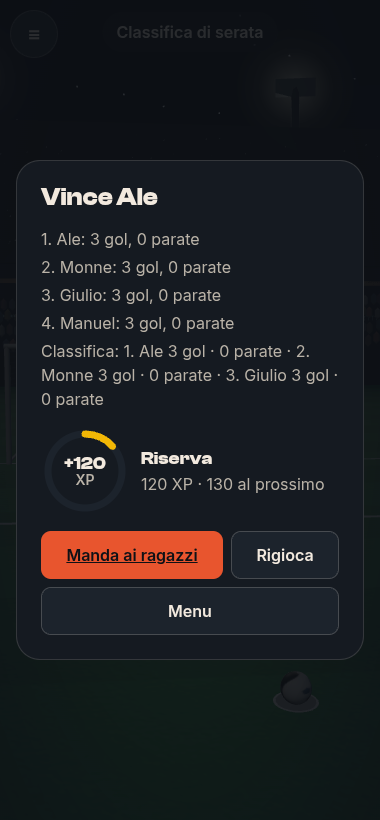
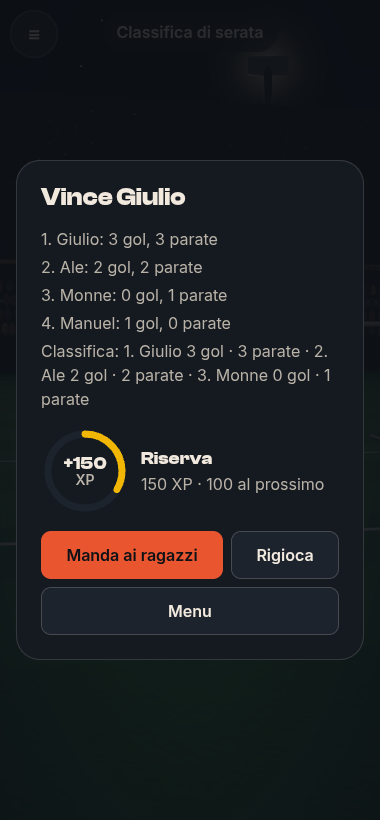
fix(rigori): correzioni da revisione: respinta contata come parata, portiere reattivo in volo, swipe specchiato, fine Skill a palla ferma
- shot.js: anche la respinta emette 'result' (le modalità contavano solo la presa e il turno si ripeteva)
- input del portiere attivo durante rincorsa e volo della CPU; swipe mappato per la camera dietro la porta
- fine modalità anche dal tick a palla ferma (Skill allo scadere); uscita e fine partita azzerano passività, zona forzata e bersaglio
- difficoltà a livello di partita, riapplicata al portiere riusato (Boss dopo Shootout normale)
- ?q= non viene più salvato nelle impostazioni; rigori.html di raccordo per i link del sito precedente
- rimosso codice morto (setCamera, loadFace, faceSprite), openOptions() unica, titoli da MODES_INFO
- QA: scripts/qa/rigori-review.mjs; regressioni flusso/modalità/pass-and-play verdi; QA_REPORT aggiornato

Claude-Session: https://claude.ai/code/session_0186k4nPYJUNr6xdRgi69dU8

diff --git a/src/rigori/main.js b/src/rigori/main.js
@@ -29,7 +29,7 @@ import { cpuAim, XP } from './game/modes/base.js'
 import { zoneOf } from './game/keeper.js'
 import { pickZone, handoff } from './ui/screens/passaggio.js'
 import { chiTira } from './ui/screens/chiTira.js'
-import { modalita } from './ui/screens/modalita.js'
+import { modalita, MODES_INFO } from './ui/screens/modalita.js'
 import { showEsito, hideEsito } from './ui/screens/esito.js'
 import { risultato } from './ui/screens/risultato.js'
 import { opzioni } from './ui/screens/opzioni.js'
@@ -38,7 +38,6 @@ import { onboarding } from './ui/screens/onboarding.js'
 import { overlay } from './ui/screens/overlay.js'
 import { toast } from './ui/components/toast.js'
 import { save } from './core/save.js'
-import { setCamera } from './scene/players.js'
 import { keeper as keeperData, faceOf, byId } from './data/players.js'
 import { createKicker, KICK_DELAY } from './game/kicker.js'
 
@@ -68,7 +67,6 @@ const R = createRenderer(stage)
 const scene = new THREE.Scene()
 scene.fog = new THREE.FogExp2(0x0E1116, 0.018) // la profondità arriva da qui (direzione visiva)
 const rig = createCameraRig(R.size.w / R.size.h)
-setCamera(rig.camera)
 const stadium = createStadium(); scene.add(stadium.group)
 const lights = createLights({ towerPositions: stadium.lightPos, aim: stadium.aim }); scene.add(lights.group)
 const field = createField(); scene.add(field)
@@ -90,14 +88,15 @@ applyQuality()
 let timingEnabled = true               // opzione (fase 9); ON di default
 // Opzione "riduci flash e shake" (fase 9) + prefers-reduced-motion: niente shake né particelle intense, lo slow-mo resta
 const settings = Object.assign({ audio: true, music: true, vibration: true, reduceFx: reducedMotion, timing: true, quality: 'auto' }, save.get('settings', {}))
-if (new URLSearchParams(location.search).get('q')) settings.quality = new URLSearchParams(location.search).get('q') // QA: ?q=alta|bassa|auto
+const qOverride = new URLSearchParams(location.search).get('q') // QA: ?q=alta|bassa|auto, solo per questa visita (non viene salvato)
 const audio = createAudio(ASSETS, settings)
 function applySettings() {
   audio.apply()
   timingEnabled = settings.timing !== false
-  perf.lock(settings.quality !== 'auto')
-  if (settings.quality === 'bassa') { quality.bloom = false; quality.shadows = false; quality.particles = false; quality.crowd = 0.5 }
-  else if (settings.quality === 'alta') { quality.bloom = !reducedMotion; quality.shadows = true; quality.particles = true; quality.crowd = 1 }
+  const q = qOverride || settings.quality
+  perf.lock(q !== 'auto')
+  if (q === 'bassa') { quality.bloom = false; quality.shadows = false; quality.particles = false; quality.crowd = 0.5 }
+  else if (q === 'alta') { quality.bloom = !reducedMotion; quality.shadows = true; quality.particles = true; quality.crowd = 1 }
   applyQuality()
   save.set('settings', settings)
 }
@@ -146,7 +145,7 @@ function setPair(keeperP, kickerP) {
   controllers[kKey] = controllers[kKey] || createKeeper(kc, { difficulty: keeper?.difficulty || 'normale', onDive: (_z, at) => { juice.dust(at); audio.play('dive', { volume: .6 }) } })
   controllers[sKey] = controllers[sKey] || createKicker(sc)
   keeper = controllers[kKey]; kicker = controllers[sKey]
-  keeper.reset(); kicker.reset(); if (game.progress) applyEquip()
+  keeper.setDifficulty(difficulty); keeper.reset(); kicker.reset(); if (game.progress) applyEquip()
   // Lo stesso personaggio passa da tiratore a portiere e viceversa: il portiere torna sulla linea, rivolto al dischetto
   kc.group.position.set(0, 0, 0.55); kc.group.rotation.set(0, 0, 0); kc.model.scale.x = 1
   scene.add(kc.group); scene.add(sc.group)
@@ -164,7 +163,8 @@ const hud = document.createElement('div'); hud.className = 'rg-hud'; hud.innerHT
   <div class="rg-hint" id="rg-hint">Trascina dal pallone</div>`
 document.getElementById('rg-ui').appendChild(hud)
 const timingEl = document.getElementById('rg-timing'), timingCur = timingEl.querySelector('.rg-timing__cur'), hint = document.getElementById('rg-hint')
-const input = createInput(stage, { camera: rig.camera, getBallWorld: () => ball.mesh.position, size: R.size, enabled: () => !shot.busy && window.__rigori.ready })
+// Tiratore: solo a palla ferma. Portiere: anche durante rincorsa e volo (deve reagire al tell), non a esito già deciso
+const input = createInput(stage, { camera: rig.camera, getBallWorld: () => ball.mesh.position, size: R.size, enabled: () => window.__rigori.ready && (input.mode === 'keeper' ? (shot.state === 'idle' || shot.state === 'windup' || shot.state === 'flying') && !shot.resolved : !shot.busy) })
 input.on('start', () => { if (timingEnabled && input.mode === 'shooter') { timing.start(); timingEl.hidden = false } hint.hidden = true })
 input.on('move', (g) => { if (g.ok && input.mode === 'shooter') ghost.show(aimFromGesture(g, R.size)) })
 input.on('end', (g) => {
@@ -172,7 +172,8 @@ input.on('end', (g) => {
   if (input.mode === 'keeper') {
     // portiere: direzione dello swipe → zona; il tempismo è tutto (troppo presto: la CPU cambia lato)
     if (!g.ok || !keeper) return
-    const col = g.dx < -40 ? 0 : g.dx > 40 ? 2 : 1, row = -g.dy > 60 ? 0 : 1
+    // la camera è dietro la porta e guarda verso il dischetto: la destra dello schermo è x<0 (colonna 0)
+    const col = g.dx > 40 ? 0 : g.dx < -40 ? 2 : 1, row = -g.dy > 60 ? 0 : 1
     keeper.playerDive(row * 3 + col); hint.hidden = true
     return
   }
@@ -210,7 +211,7 @@ systems.push({ update(_dt, raw) {
 
 // ---------- modalità ----------
 const MODES = { shootout: (o) => createShootout(o), boss: (o) => createShootout({ ...o, boss: true }), sfidaAle: (o) => createSfidaAle(o), passAndPlay: (o) => createPassAndPlay(o), skill: (o) => createSkill(o) }
-let mode = null, role = 'idle'
+let mode = null, role = 'idle', difficulty = 'normale' // la difficoltà è della partita, non del singolo controller (che viene riusato)
 const modeHud = document.createElement('div'); modeHud.className = 'rg-modehud'; modeHud.setAttribute('aria-live', 'polite'); document.getElementById('rg-ui').appendChild(modeHud)
 const target = new THREE.Mesh(new THREE.RingGeometry(0.42, 0.55, 32), new THREE.MeshBasicMaterial({ color: 0xF2B705, transparent: true, opacity: .9, side: THREE.DoubleSide, depthTest: false })); target.renderOrder = 8; target.visible = false; scene.add(target)
 const xpLog = []
@@ -224,7 +225,7 @@ const ctx = {
     else if (r === 'keeper') { hint.textContent = 'Trascina verso la zona in cui tuffarti'; hint.hidden = false; rig.goTo('dietroPortiere', { instant: true }) }
     else hint.hidden = true
   },
-  setDifficulty(d) { keeper?.setDifficulty(d) },
+  setDifficulty(d) { difficulty = d; keeper?.setDifficulty(d) },
   hud(t) { modeHud.textContent = t },
   xp(kind) { const n = XP[kind] || 0; xpLog.push({ kind, n }); listeners.forEach((f) => f({ type: 'xp', kind, n })) },
   forceKeeperZone(z) { keeper?.force(z) },
@@ -255,21 +256,30 @@ function startMode(id, opts = {}) {
   listeners.forEach((f) => f({ type: 'modeStart', id }))
   return mode
 }
+// Fine modalità: stato della partita azzerato (passività, zona forzata, bersaglio), poi 'modeEnd'
+function endMode() {
+  const summary = mode.summary(); const m = mode; mode = null
+  ctx.keeperPassive(false); ctx.forceKeeperZone(null); ctx.showTarget(null); ctx.role('idle')
+  listeners.forEach((f) => f({ type: 'modeEnd', id: m.id, summary }))
+}
 listeners.add((e) => {
   if (!mode) return
   if (e.type === 'result') mode.onResult(e, ctx)
-  if (e.type === 'replayEnd') {
-    if (mode.finished) { const summary = mode.summary(); const m = mode; mode = null; ctx.role('idle'); listeners.forEach((f) => f({ type: 'modeEnd', id: m.id, summary })) }
-    else mode.nextTurn(ctx)
-  }
+  if (e.type === 'replayEnd') { if (mode.finished) endMode(); else mode.nextTurn(ctx) }
 })
-systems.push({ update(dt) { if (mode?.tick && !mode.finished) mode.tick(dt, ctx) } })
+systems.push({ update(dt) {
+  if (!mode?.tick || mode.finished) return
+  mode.tick(dt, ctx)
+  // il tempo può scadere a palla ferma (Skill): non arriverebbe nessun 'replayEnd'
+  if (mode.finished && shot.state === 'idle') endMode()
+} })
 
 // ---------- flusso: onboarding → CHI TIRA? → modalità → partita → risultato ----------
 document.getElementById('rg-ui').addEventListener('click', (e) => { const b = e.target.closest('button, a'); if (!b) return; audio.play(b.classList.contains('rg-btn--primary') ? 'confirm' : b.dataset.value === '__close' || b.dataset.back != null ? 'back' : 'click', { volume: .5 }) })
 const menuBtn = document.createElement('button'); menuBtn.className = 'rg-btn rg-btn--ghost rg-menubtn'; menuBtn.setAttribute('aria-label', 'Menu'); menuBtn.textContent = '≡'; menuBtn.hidden = true
 document.getElementById('rg-ui').appendChild(menuBtn)
 let flow = 'boot', quitRequested = false
+const openOptions = () => opzioni(game.ui, settings, { onChange: applySettings, onReset: () => { save.reset(); toast(game.ui, 'Progressi azzerati'); setTimeout(() => location.reload(), 700) } })
 async function runFlow() {
   await kitReady
   ctx.role('idle')
@@ -281,7 +291,7 @@ async function runFlow() {
     while (!choice) {
       flow = 'modalita'
       const r = await modalita(game.ui, { bossUnlocked: game.progress?.bossUnlocked?.() ?? false, level: game.progress?.level?.().n ?? 1 })
-      if (r.id === '__opzioni') { await opzioni(game.ui, settings, { onChange: applySettings, onReset: () => { save.reset(); toast(game.ui, 'Progressi azzerati'); setTimeout(() => location.reload(), 700) } }); continue }
+      if (r.id === '__opzioni') { await openOptions(); continue }
       if (r.id === '__sblocchi') { await sblocchi(game.ui, game.progress.summaryForUi(), { onEquip: (kind, id) => { if (game.progress.setEquip(kind, id)) { applyEquip(); return game.progress.summaryForUi() } audio.play('error', { volume: .5 }); return null } }); continue }
       if (r.id === '__chi') break
       if (!r.id) continue
@@ -297,7 +307,7 @@ async function runFlow() {
       startMode(choice.id, choice.opts)
       const e = await Promise.race([ended, new Promise((res) => { const iv = setInterval(() => { if (quitRequested) { clearInterval(iv); res(null) } }, 200) })])
       menuBtn.hidden = true
-      if (!e) { mode = null; ctx.role('idle'); shot.reset(); keeper?.reset(); kicker?.reset(); hideEsito(game.ui); rig.goTo('dietroTiratore', { instant: true }); break }
+      if (!e) { mode = null; ctx.keeperPassive(false); ctx.forceKeeperZone(null); ctx.showTarget(null); ctx.role('idle'); shot.reset(); keeper?.reset(); kicker?.reset(); hideEsito(game.ui); rig.goTo('dietroTiratore', { instant: true }); break }
       flow = 'risultato'
       if (e.summary?.winner === 'me' || (e.id !== 'shootout' && e.id !== 'boss')) audio.playMusic('vittoria', { loop: false }); else audio.playMusic('inno')
       const xpNow = game.progress?.xp?.() ?? 0
@@ -310,11 +320,10 @@ async function runFlow() {
 menuBtn.addEventListener('click', async () => { const v = await overlayMenu(); if (v === 'esci') quitRequested = true })
 async function overlayMenu() {
   const v = await overlay(game.ui, `<h2 class="rg-title">Pausa</h2><div class="rg-row"><button class="rg-btn rg-btn--primary" data-value="continua" aria-label="Continua">Continua</button><button class="rg-btn" data-value="opzioni" aria-label="Opzioni">Opzioni</button><button class="rg-btn rg-btn--ghost" data-value="esci" aria-label="Esci dalla partita">Esci</button></div>`, { label: 'Pausa', closable: true })
-  if (v === 'opzioni') { await opzioni(game.ui, settings, { onChange: applySettings, onReset: () => { save.reset(); toast(game.ui, 'Progressi azzerati'); setTimeout(() => location.reload(), 700) } }); return 'continua' }
+  if (v === 'opzioni') { await openOptions(); return 'continua' }
   return v
 }
-const NAME = { shootout: 'Shootout', boss: 'Boss: Ale in forma', sfidaAle: 'Sfida Ale', passAndPlay: 'Pass-and-play', skill: 'Skill' }
-function titleFor(e) { const s = e.summary; if (e.id === 'shootout' || e.id === 'boss') return s.winner === 'me' ? `Hai vinto ${s.me}–${s.ale}` : `Ale vince ${s.ale}–${s.me}`; if (e.id === 'sfidaAle') return `${s.goals} gol prima di tre parate`; if (e.id === 'skill') return `${s.score} punti`; if (e.id === 'passAndPlay') return `Vince ${s.leaderboard[0].name}`; return NAME[e.id] }
+function titleFor(e) { const s = e.summary; if (e.id === 'shootout' || e.id === 'boss') return s.winner === 'me' ? `Hai vinto ${s.me}–${s.ale}` : `Ale vince ${s.ale}–${s.me}`; if (e.id === 'sfidaAle') return `${s.goals} gol prima di tre parate`; if (e.id === 'skill') return `${s.score} punti`; if (e.id === 'passAndPlay') return `Vince ${s.leaderboard[0].name}`; return MODES_INFO.find((m) => m.id === e.id)?.title || e.id }
 function linesFor(e) { const b = game.progress.board(e.id).slice(0, 3); const top = b.length ? [`Classifica: ${b.map((x, i) => `${i + 1}. ${x.name} ${x.label}`).join(' · ')}`] : []; return [...linesBase(e), ...top] }
 function linesBase(e) { const s = e.summary; if (e.id === 'passAndPlay') return s.leaderboard.map((p, i) => `${i + 1}. ${p.name}: ${p.goals} gol, ${p.saves} parate`); if (e.id === 'sfidaAle') return [`${s.shots} tiri, ${s.goals} gol`]; if (e.id === 'skill') return [`${s.hits} bersagli su ${s.shots} tiri`]; if (e.id === 'shootout' || e.id === 'boss') return [s.suddenDeath ? 'Deciso al sudden death' : `${s.rounds} rigori a testa`]; return [] }
 function shareFor(e) {

diff --git a/src/rigori/scene/players.js b/src/rigori/scene/players.js
@@ -4,9 +4,6 @@ import { DRACOLoader } from 'three/addons/loaders/DRACOLoader.js'
 import { clone as skeletonClone } from 'three/addons/utils/SkeletonUtils.js'
 import { buildBigHead } from './bighead.js'
 import { blobShadowTexture } from './textures.js'
-// Camera condivisa (compatibilità con il bootstrap; il big head non ha più sprite da orientare)
-let CAMERA = null
-export const setCamera = (c) => { CAMERA = c }
 // Kit dei personaggi: un solo modello riggato (manichino Mixamo "Y Bot", in metri) + clip solo-animazione
 // dello stesso scheletro. Il manichino è INVISIBILE: fa solo da scheletro per le primitive del big head.
 export const BODY_SCALE = 0.7                // corpo piccolo, testa enorme (≈ 40 % dell'altezza)
@@ -25,9 +22,6 @@ export async function loadCharacterKit(ASSETS, manager) {
   await Promise.all(Object.entries(CLIP_FILES).map(async ([k, f]) => { const g = await load(f); const c = g.animations[0]; if (c) { c.name = k; clips[k] = c } }))
   base.scene.traverse((o) => { if (o.isMesh) { o.visible = false; o.castShadow = false; o.receiveShadow = false; o.frustumCulled = false } })
   return { base: base.scene, clips }
-}
-export function loadFace(ASSETS, path, manager) {
-  const t = new THREE.TextureLoader(manager).load(ASSETS + path); t.colorSpace = THREE.SRGBColorSpace; return t
 }
 // maglia/numero → corpo; faceUrl → foto sull'emisfero frontale della testa; glove → guantoni (portiere)
 export function makeCharacter(kit, { maglia, numero, faceUrl = null, glove = false, manager = undefined }) {
@@ -48,7 +42,7 @@ export function makeCharacter(kit, { maglia, numero, faceUrl = null, glove = fal
   const _hp = new THREE.Vector3(); let hipsBase = null
   let current = null
   return {
-    group, model, mixer, actions, big, shadow, faceSprite: null,
+    group, model, mixer, actions, big, shadow,
     play(name, { loop = false, fade = 0.15, timeScale = 1, from = 0 } = {}) {
       const a = actions[name]; if (!a) return null
       a.reset(); a.setLoop(loop ? THREE.LoopRepeat : THREE.LoopOnce, loop ? Infinity : 1); a.timeScale = timeScale; a.time = from; a.enabled = true

diff --git a/src/rigori/game/shot.js b/src/rigori/game/shot.js
@@ -73,7 +73,7 @@ export function createShot({ ball, goal, keeper, onEvent, precision = 1 }) {
         // Intervento del portiere sul piano della porta (o poco prima)
         if (keeper && !resolved && m.position.z < 0.9 && m.position.z > -0.2) {
           const hit = keeper.tryStop(m.position, aim)
-          if (hit) { resolved = 'save'; free = true; freeVel.copy(vel).multiplyScalar(-0.25); freeVel.x += hit.deflectX; freeVel.y = Math.abs(freeVel.y) * 0.4 + 1.2; emit('save', { point: m.position.clone(), catch: hit.catch }); if (hit.catch) { held = 0.9; state = 'held'; emit('result', { result: 'save', catch: true, point: m.position.clone() }) } return }
+          if (hit) { resolved = 'save'; free = true; freeVel.copy(vel).multiplyScalar(-0.25); freeVel.x += hit.deflectX; freeVel.y = Math.abs(freeVel.y) * 0.4 + 1.2; emit('save', { point: m.position.clone(), catch: hit.catch }); emit('result', { result: 'save', catch: hit.catch, point: m.position.clone() }); if (hit.catch) { held = 0.9; state = 'held' } return } // anche la respinta è un esito: le modalità contano la parata, poi la palla rotola libera fino a 'settled'
         }
         if (u >= 1 || m.position.z <= 0) {
           // sul piano della porta: palo, traversa, gol o fuori

diff --git a/vite.config.js b/vite.config.js
@@ -1,5 +1,5 @@
 import { defineConfig } from 'vite'
-import { cpSync, existsSync, mkdirSync, readdirSync, statSync, copyFileSync } from 'node:fs'
+import { cpSync, existsSync, mkdirSync, readdirSync, statSync, copyFileSync, writeFileSync } from 'node:fs'
 import path from 'node:path'
 
 // File di root del sito precedente che NON vanno ripubblicati:
@@ -35,7 +35,9 @@ function copyLegacy() {
         }
       }
       walk(src, out, 0)
-      console.log(`[copy-legacy] ${copied} file dal sito precedente, ${skipped} saltati`)
+      // I link del sito precedente (guida, sala giochi) puntano a rigori.html: pagina di raccordo verso il gioco nuovo
+      writeFileSync(path.join(out, 'rigori.html'), '<!doctype html><html lang="it"><head><meta charset="utf-8"><meta http-equiv="refresh" content="0; url=rigori/"><title>Rigori al Camp Nou</title></head><body><p>Il gioco si è spostato: <a href="rigori/">Rigori al Camp Nou 2.0</a> · <a href="rigori-classic.html">versione classica</a></p></body></html>')
+      console.log(`[copy-legacy] ${copied} file dal sito precedente, ${skipped} saltati, rigori.html di raccordo`)
     }
   }
 }

diff --git a/QA_REPORT.md b/QA_REPORT.md
@@ -135,6 +135,22 @@ EXIT 0
 | Tuffo verso la zona giusta (clip diveL/diveR misurate: erano invertite) | ✅ | `v1-tuffo-basso-sx.png`; fianchi a x=−3,27 per la zona basso-sinistra |
 | `prefers-reduced-motion`: riduci flash e shake attivo, bloom spento, pubblico 3 200 | ✅ | contesto Playwright con `reducedMotion: 'reduce'` |
 
+## Revisione del codice (seconda passata, `rigori-review.mjs`)
+
+Difetti trovati rileggendo il diff e corretti, ciascuno con un controllo automatico:
+
+| Difetto | Correzione | Controllo |
+|---------|------------|-----------|
+| Una parata di respinta (non presa) non emetteva `result`: la modalità non contava la parata e il turno si ripeteva | `shot.js` emette `result: save` anche sulla respinta, poi la palla rotola libera | respinta a potenza 0,95 → `saves = 1` in Sfida Ale |
+| Da portiere l'input era spento appena la CPU iniziava la rincorsa: impossibile reagire al tell | input attivo in `windup`/`flying` finché l'esito non è deciso | swipe durante il volo → `playerDive` accettato |
+| Swipe del portiere specchiato: la camera dietro la porta guarda +z, la destra dello schermo è x<0 | mappatura invertita | swipe a destra → zona 3 (basso, x<0) |
+| Skill: tempo scaduto a palla ferma lasciava la partita appesa | fine modalità anche dal tick quando la palla è ferma | `timeLeft = 1,2 s` senza tirare → `modeEnd` |
+| Uscita dalla partita e fine modalità non azzeravano passività, zona forzata e bersaglio | `endMode()` e uscita ripuliscono lo stato | dopo Skill il portiere non è passivo |
+| Difficoltà legata al controller in cache: Boss dopo uno Shootout normale usava il portiere "normale" | difficoltà a livello di partita, riapplicata a ogni cambio coppia | portiere riusato in Boss → `boss` |
+| `?q=` finiva salvato nelle impostazioni del telefono | override solo per la visita | `settings.quality` resta `auto` |
+| `guida.html` e `sala-giochi.html` del sito precedente linkano `rigori.html`, che la build non emetteva più | `rigori.html` di raccordo verso `rigori/` con link al classic | `dist/rigori.html` presente |
+| Codice morto (`setCamera`, `loadFace`, `faceSprite`), opzioni duplicate, titoli duplicati | rimossi; `openOptions()`; titoli da `MODES_INFO` | build ok |
+
 ## Cose non verificabili qui (da fare sul telefono)
 
 - fps reali su Chrome Android e Safari iOS, e soglie di degradazione (45/55 fps)
